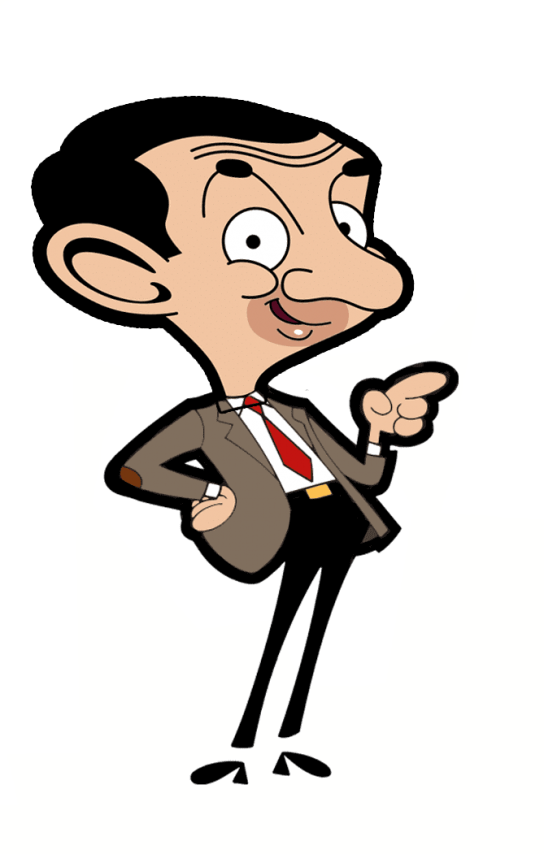
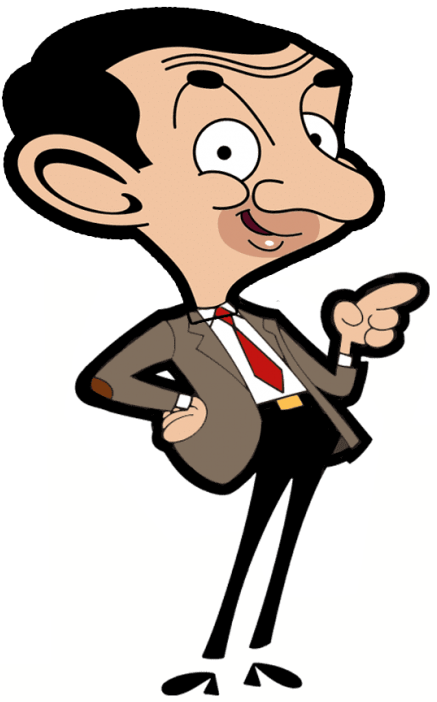
fix: fix statistics img height

diff --git a/rs-lang/src/app/pages/statistics/short-term/short-term.component.scss b/rs-lang/src/app/pages/statistics/short-term/short-term.component.scss
@@ -23,7 +23,6 @@
 
 .statistic-card {
   max-width: 600px;
-  height: fit-content;
   display: flex;
   align-items: center;
   gap: 20px;
@@ -31,7 +30,8 @@
 
 .card-image {
   width: 200px;
-  height: 300px;
+  max-height: 300px;
+  margin-top: auto !important;
 }
 
 .card-content {
